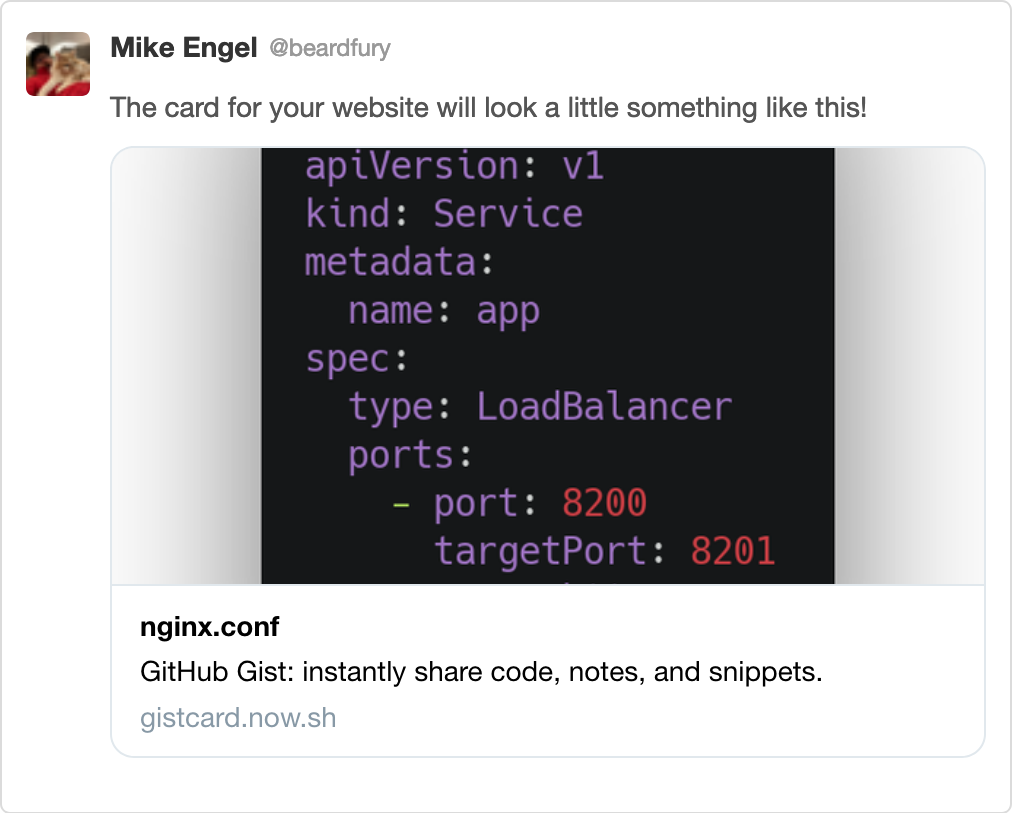
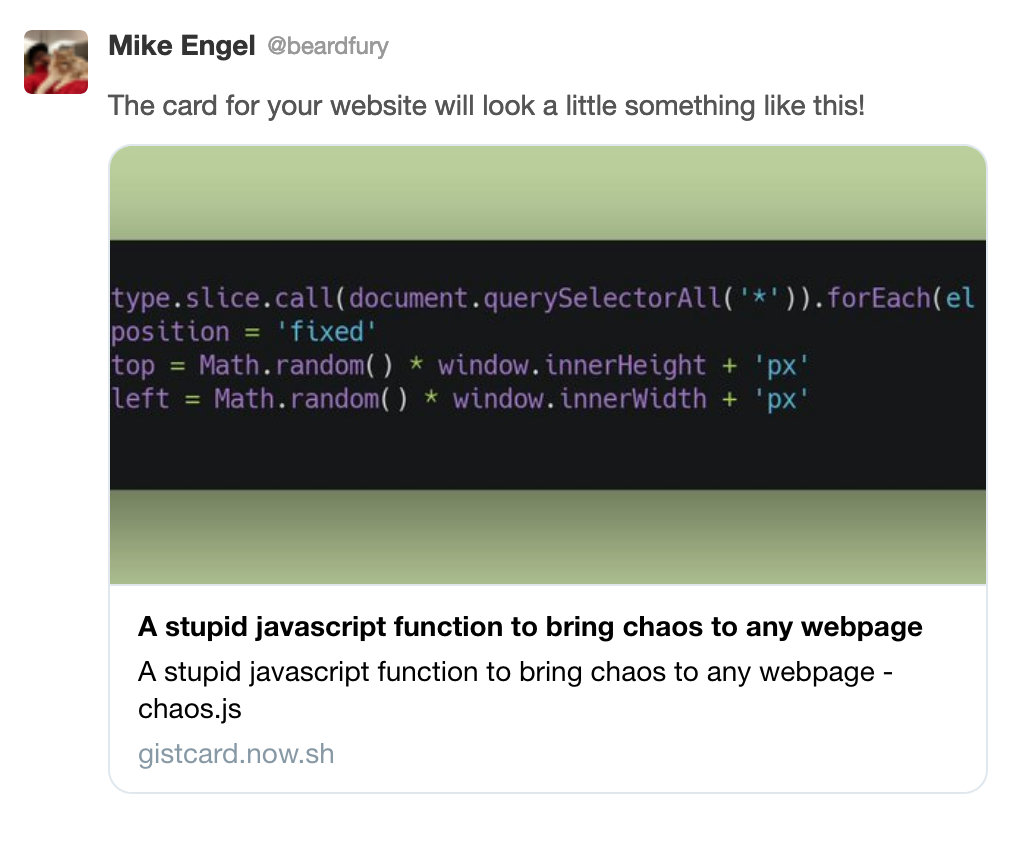
feat: Update card preview

diff --git a/site/src/pages/index.tsx b/site/src/pages/index.tsx
@@ -11,6 +11,7 @@ import styled from "styled-components";
 import { Stylable } from "../types/component.types";
 import { Preview } from "../components/molecules/preview.component";
 import { spacing } from "../utils/spacing.utils";
+import { pSBC, lightGrey, hexToRgba, black } from "../components/atoms/color.component";
 
 type Props = Stylable;
 
@@ -52,5 +53,8 @@ export default styled(RawIndexPage)`
     max-width: 504px;
     width: auto;
     height: auto;
+    border: 1px solid ${pSBC(0.75, lightGrey)};
+    box-shadow: 0 2px 4px ${hexToRgba(black, 0.15)};
+    border-radius: ${spacing(0.5)}px;
   }
 `;
